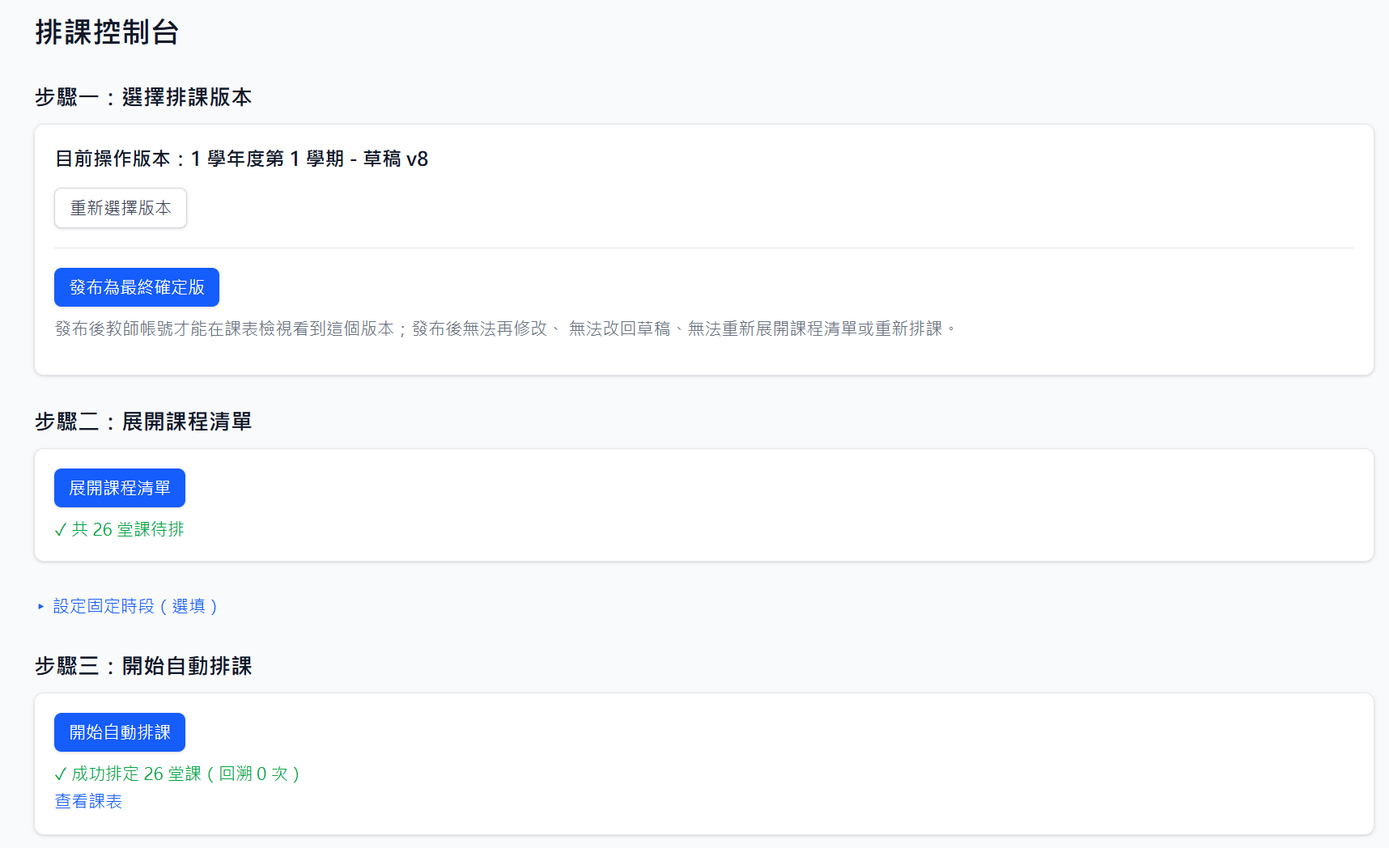
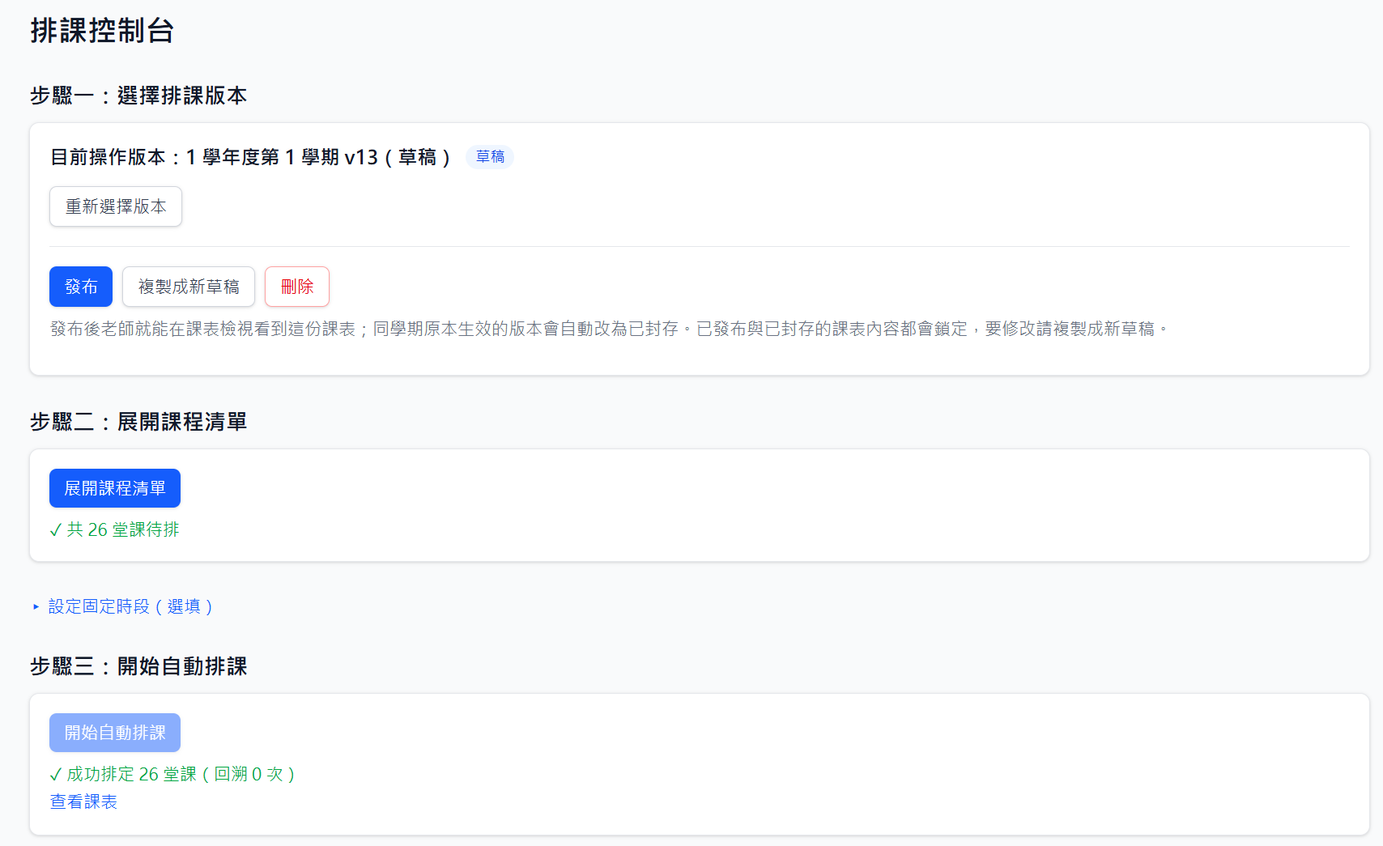
docs: 補上示範截圖並更新連堂組合相關文件
- README 換入 7 張示範截圖(含連堂整組拖曳),並更新課表檢視與排課成功截圖

- 更新 SYSTEM_DESIGN 連堂組合狀態與決策 26 的說明

diff --git a/docs/SYSTEM_DESIGN.md b/docs/SYSTEM_DESIGN.md
@@ -311,7 +311,7 @@ H12(停用狀態)理論上要分別檢查教師/班級/科目/教室四種實體
 | H10 | Room Capacity | ⏸ **延後** | `Room.capacity` 欄位已預留(nullable),但未實作對應 Constraint,見第 10 節 |
 | H11 | Non-teaching Period | ✅ 已做 | 即時檢查;在目前的 API 流程中實際上不會被觸發(只有 `greedy.py` 的逐候選解釋路徑會產生,但 `run_scheduler()` 只呼叫 Backtracking),前端失敗診斷因此對它顯示「此為排課引擎內部判斷」而非導向某個修正頁面,見 3.3 |
 | H12 | Active Status | ✅ 已做 | 即時檢查,涵蓋教師/班級/科目/教室 |
-| — | 連堂組合(Lesson Block,非 H 編號) | ✅ 引擎、預檢與檢查服務已做 | 需求的連堂樣式(如 2+1);同組同一天相鄰教學時段、同教師同教室,不同組不同天;以「一組一個排課單位」實作(決策 26);檢查服務以同一個 `LessonBlockConstraint` 回報 `BLOCK_NOT_CONSECUTIVE`/`BLOCK_SAME_DAY`(Task 88);手動整組調整尚未支援(第 10 節) |
+| — | 連堂組合(Lesson Block,非 H 編號) | ✅ 已做 | 需求的連堂樣式(如 2+1);同組同一天相鄰教學時段、同教師同教室,不同組不同天;以「一組一個排課單位」實作(決策 26);檢查服務以同一個 `LessonBlockConstraint` 回報 `BLOCK_NOT_CONSECUTIVE`/`BLOCK_SAME_DAY`(Task 88);手動移動、對調、換教師以整組為單位(Task 89),前端整組拖曳見決策 27(Task 90) |
 | — | 最低授課節數(`TEACHER_MIN_WORKLOAD`,非 H 編號) | ✅ 只檢查、不阻擋 | 教師在該版本的節數低於 `min_weekly_periods` 時,檢查結果列出一筆 **WARNING**(唯一的非 ERROR 類型);不在任何排課演算法或預檢中,不影響 `is_valid`,不阻擋排課、發布、移動或對調(Task 88,決策 15) |
 | — | 固定時段(Fixed Time Slot,非 H 編號) | ✅ 已做 | 以定義域實作:固定課的時段候選只剩固定時段(Task 28);不可能成立的固定時段在排課前預檢(6.3 第 5 類,Task 81);寫入前再確認沒有被移動(決策 23) |
 
@@ -418,7 +418,7 @@ HTTP 422
 | 23 | 自動排課要怎麼保證「固定時段的課一定排在固定時段」?固定時段本身不可能成立時要怎麼說明?(Task 81) | (a) 新增一條 Constraint,在每個候選上檢查「是否在固定時段」 (b) 縮小定義域:固定課的時段候選只剩固定時段,另外在排課前做預檢 (c) 排完再用檢查服務找出偏離的課 | (b) | 引擎裡每堂課是一個變數,定義域是(教師 × 時段 × 教室)的候選組合;Task 28 起固定課的 `LessonAssignment` 帶著已填好的 `time_slot_id` 進入搜尋,`candidate_time_slot_ids()` 只回傳這一個時段,所以搜尋本來就不可能把它排到別處——(a) 只會重複這件事,還要對每個候選多跑一次檢查;(c) 是事後補救,無法保證。這個做法缺的是「說得清楚」:固定時段本身不可能成立時(例如固定在午休),搜尋會跑完整棵樹才回報一個找不到原因的 `DEFINITELY_INFEASIBLE`。因此 `static_feasibility.py` 新增第 5 類預檢 `_check_fixed_time_slots()`,在搜尋前找出:時段不存在(`STATIC_FIXED_SLOT_UNKNOWN`)、非教學時段(`_NON_TEACHING`)、能教這堂課的教師(指定教師,或沒有指定時所有合格教師)在該時段都不可排課(`_TEACHER_UNAVAILABLE`)、同班兩堂以上固定在同一時段(`_CLASS_CLASH`)、只能由同一位教師(指定教師或唯一合格教師)授課的兩堂以上固定在同一時段(`_TEACHER_CLASH`)、同一時段需要某類型教室的固定課多於該類型教室數(`_ROOM_SHORTAGE`)。每一項都帶 `lesson_id`、班級、科目、時段與需求 id,沿用既有的 `STATIC_CHECK_FAILED`(422)回應,前端以既有的失敗診斷顯示成中文句子,時段經 `formatTimeSlotLabel()` 顯示教學節序號(決策 21)。沒有固定課時這一步只掃過一次課程清單,搜尋行為不變。寫入前 `run_scheduler()` 再以 `lessons_moved_off_fixed_slot()` 確認沒有固定課被移動,若有(只可能是引擎程式錯誤)就不寫入並丟出例外。固定時段不是 AGENTS.md 的 H1–H12 之一,所以不給 H 編號,文件中以「固定時段(以定義域實作)」呈現。分工:引擎保證自動排課的結果;檢查服務的 `FIXED_TIME_SLOT_MISMATCH` 保留,用來發現**手動移動或對調**之後偏離固定時段的課——手動移動刻意不更新 `Lesson.fixed_time_slot_id`(避免默默改掉排課前的設定),這個既有取捨不變。 |
 | 24 | 編輯模式想在選取或拖曳一堂課時標出「放到每一格會不會產生新問題」,後端要提供什麼?(Task 83) | (a) 前端對每一格各呼叫一次 move-lesson 的 dry_run (b) 新端點一次回傳每個時段的試算,且直接算好「新增/解決的問題」 (c) 新端點一次回傳每個時段試算後的**完整違規清單**,差異由前端算 | (c) | (a) 一堂課約 40–50 個時段就要 40–50 次請求,每次都要重新查資料庫並寫入後 rollback,拖曳時太慢。`GET /schedule-versions/{id}/move-candidates/{schedule_id}` 一次回傳:`baseline`(目前的檢查,與 `GET /check` 相同)與每個時段一筆 `candidates`:`available`(非教學時段為 `NON_TEACHING_SLOT`、目前所在時段為 `CURRENT_SLOT`,兩者 `move` 為 null)、`move`(移到這裡、教室不變之後的完整檢查,等同 move-lesson 的 dry_run)、`swaps`(與這個時段中同班、同教師或同教室的每一堂課對調後的完整檢查與對方排課列 id,等同 swap-lessons 的 dry_run)。swap 對象列出三種關係的聯集,因為課表的班級/教師/教室三種檢視中,同一格顯示的課不同,由前端依目前檢視挑選。不採 (b):「新增/解決」的判斷以「問題身分」比對(Task 71 的 `violationIdentityKey()`),這套規則已在前端並有測試;後端若再實作一份,兩邊遲早會不一致,所以後端只回傳與既有端點完全相同格式的原始清單,前端沿用 `diffViolations()`。**唯讀且只限 DRAFT**:只有草稿能移動或對調,已發布或已封存的版本回 409(沿用鎖定訊息);權限比照 `/check`,只限 ADMIN,TEACHER 一律 403,在查任何資料之前就擋下,不洩漏哪些 id 存在;排課列不存在或屬於其他版本都回 404。**效能**:檢查服務拆成 `load_check_context()`(一次載入需求、資源與固定時段)與純計算的 `check_assignments()`,`GET /check` 改成兩者的組合,行為與回應不變;新端點只查一次資料庫,之後在記憶體中替換那一兩列的時段逐一試算,完全不寫入、也不做寫入後 rollback。一致性由測試保證:對同一份資料的每個候選時段,`move`/`swaps` 必須與實際呼叫 move-lesson/swap-lessons 的 dry_run 結果完全相同。量測(測試資料庫,50 個時段,含 HTTP 往返):30 列約 0.02–0.1 秒(第一次請求含啟動成本)、300 列約 0.23–0.24 秒。**Task 89(連堂)**:候選與 move-lesson/swap-lessons 改用同一個整組規劃(`services/block_adjustment.py`,見決策 26),回應只新增可空欄位:每個時段的 `block_members`(選取的課屬於 2 節以上的連堂、且該格可移動時,整組每一列 `{schedule_id, to_time_slot_id}`)與 `unsupported_swaps`(該格中依連堂規則不能對調的課 `{swap_with_schedule_id, reason}`,沒有時為 null),`swaps[]` 的 `block_members`(涉及連堂時兩組所有會動的列);`unavailable_reason` 新增 `BLOCK_OUT_OF_RANGE`、`BLOCK_TARGET_OCCUPIED`(只會出現在連堂的課),既有的 `NON_TEACHING_SLOT`/`CURRENT_SLOT` 與其優先順序不變。沒有分組的課,新欄位一律為 null(與它對調的對象是連堂時除外:那個對調列在 `unsupported_swaps`)。量測(Task 89 後):30 列約 0.12–0.17 秒、300 列約 0.39–0.43 秒,與改動前同一環境的 0.10–0.11 秒、0.41–0.42 秒相同。 |
 | 25 | 選取或拖曳一堂課時,要怎麼在課表上標出候選位置?(Task 84) | (a) 只用顏色標格子,紅色格禁止放下 (b) 標示僅供參考:安全/衝突兩種標籤加文字與原因,任何格子都仍可放下並走既有預覽 | (b) | **判定與預覽對話框完全相同**:每個標示都是 `diffViolations(baseline, 移動或對調後)`(以 `violationIdentityKey()` 比對),有新增問題就是「衝突」、只解決或維持既有問題就是「安全」,句子也用同一個 `getViolationSentence()`(時段為教學節序號),所以紅色格正好就是放下後預覽會出現「這次異動會新增的問題」的格子;非教學時段與目前所在格不加標示,維持原本樣式。放置語意沿用 Task 71:格子空白處用 `move`,放到某堂課上用 `swaps` 中對方 id 相符的檢查,找不到就不提示(`utils/moveCandidates.ts`)。**外觀(Task 85 精簡)**:每格最多一個淡色底加一個小圖示——可放是淺綠底與 ✓,衝突是淺紅底加細斜紋與 ✕(形狀與紋路不同,不只靠顏色),非教學格與目前所在格不加標示;圖示的 `title` 與 `aria-label` 寫出會發生什麼並列出最多 3 條原因(超過顯示「…等 N 項」)。Task 84 原本的左側粗色條、「✓ 可放」「✕ 衝突」文字標籤與每堂課的「可對調」徽章讓格子太擠,改為對調的說明只放在該課的 `title` 與 `aria-label`。飽和度刻意壓低,與琥珀色定位框、天藍色「剛調整」、拖曳經過的框線、非教學格的深灰都分得出來;格子同時有這些標記時改顯示那個標記,圖示保留。課表上方的圖例縮成三個小色塊加「可放」「衝突」「非教學」,細節放在圖例的滑鼠提示。**不阻擋**:紅色格仍可放下,由預覽決定(「仍要移動」),因為中間步驟本來就可能暫時衝突(決策 15)。**載入與快取**:選取或開始拖曳時才呼叫 Task 83 的端點,每個(版本、排課列、編輯版次)只呼叫一次,重複選同一堂課讀快取;儲存移動、對調或換教師後版次加一,舊快取不再使用。課程改變時 AbortController 取消舊請求,結果也依快取鍵存放,舊回應不會套用到新課程;只在請求的回呼中更新狀態,不在 effect 內同步 setState。**不中斷拖曳**:拖曳來源由課表元件在 dragstart 之後的下一個事件循環才告知頁面(沿用 Task 71 的延後做法),請求與標示更新都在那之後;標示只改格子的 class 與在每格最後加上一個標籤元素,課程按鈕的 key 與位置不變、`draggable` 也不受影響,所以被拖曳的元素不會重新掛載。清除時機:放下或結束拖曳、取消選取或按 Esc、預覽或儲存進行中、離開編輯模式、換版本;切換檢視時,若那堂課不在新的課表上就不顯示。**失敗降級**:403、404、409 或網路錯誤時不跳錯誤對話框、不加標示,只在課表下方以次要樣式顯示「目前無法顯示候選位置，仍可直接放下並預覽」,其他功能照常。 |
-| 26 | 每週不只一節的課常要綁成連堂(例如自然每週 3 節 =「2 節連堂 + 1 節」,且兩者不同天),要怎麼表示與排課?(Task 87) | (a) 沿用 `consecutive_limit`(單一上限數字) (b) 需求加「連堂樣式」字串(如 2+1),課程記錄所屬組;引擎把一組當成一個單位排 (c) 每節課仍獨立排,再加一條「同組要相鄰」的約束讓搜尋自己湊 | (b) | `consecutive_limit` 只是一個上限,表達不了「哪幾節綁在一起、幾組」;(c) 讓搜尋逐節猜測哪兩節要相鄰,組越大搜尋空間越大、失敗時也說不出是哪一組。**樣式**:`ClassSubjectRequirement.lesson_pattern`,例如 `2+1`、`2+2+1`、`3`;每組 1 到 3 節、總和必須等於 `weekly_periods`(建立時由 schema 檢查,修改時以修改後的兩個值檢查,不一致回 422);一律存成由大到小(`1+2` 存成 `2+1`),同一個樣式只有一種寫法,第 1 組永遠是最長的一組;空值 = 不指定連堂,所有行為與以前完全相同。樣式列入需求編輯保護(被已發布或已封存課表使用時不可修改,沿用 409)。**課程分組**:`Lesson.block_no`/`block_seq`(組別與組內順序,沒有樣式時都是 NULL,資料庫 CHECK 保證兩者同時有或同時沒有),依 `sequence_number` 依序填入各組;展開課程(diff-sync)會一併校正既有課程的分組,修改樣式時也立即重新分組,跨學期複製會連同樣式與分組一起複製。**規則**:同一組的所有節在同一天、`period` 相鄰且都是教學時段(中間隔著午休等非教學時段或缺一節就不算連續)、同一位教師、同一間教室,組內依序;同一需求的不同組必須在不同天。**引擎**:一組是一個排課單位,定義域是(教師、起始時段、教室),起始時段只列出「當天有連續 N 個教學時段」的位置;放置時把一組展開成各節的 `LessonAssignment`,再用既有的 H1–H12 約束逐節檢查,另加即時約束 `LessonBlockConstraint`(同組連續、不同組不同天);寫入時本來就是逐節的排課列。沒有分組的課程就是「只有一節的單位」,候選、排序、回溯與以前完全一樣——`SchedulingResources` 只多兩個預設為空的欄位(`lesson_blocks`、`time_slot_positions`),Task 87 之前既有的 560 個後端測試(其中引擎 107 個)全數未改預期而通過,同一份無樣式資料新舊版的排課結果相同、時間在誤差內。**檢查已儲存的課表(Task 88)**:只排了一部分的組,只判斷已有時段的節:每一節要在它在組內位置所對應的節次,且「整組在那裡會佔用的所有節次」都必須是存在的教學時段——所以只有在「不論其餘節怎麼排都不可能正確」時才回報,單純未排滿不算違規(缺的節由 H7 或 `INCOMPLETE_SCHEDULE_ROW` 回報,與其他規則的分工相同);沒有教師的列不算「另一位教師」。穩定識別:`BLOCK_NOT_CONSECUTIVE:{需求}:{組}`、`BLOCK_SAME_DAY:{需求}:{同一天的各組,由小到大}`,不含時段、星期或課堂,所以同一組在移動前後仍不連續時 key 不變。**與固定時段**:組內任何一節被固定,整組的起始時段就跟著決定(只保留讓該節落在固定時段的起始位置);組內固定時段互相矛盾(不同天、不相鄰、順序不符,或會讓整組跨過午休)或兩組被固定在同一天,都在預檢指出。**取捨**:`consecutive_limit` 欄位與資料保留,但已停用(API 標為 deprecated,沒有任何規則讀它),以免破壞既有資料與用戶端;前端設定尚未支援連堂(見第 10 節)。**手動調整(Task 89)**:移動、對調一律以「組」為單位——一組是同一個連堂在該版本中已有排課列的所有課;沒有分組的課與只有 1 節的組(如 2+1 的「1」)各自是 1 節的組,行為與以前完全相同。move-lesson、swap-lessons(預覽與執行)與移動候選都呼叫同一個純函式 `services/block_adjustment.py`,先決定「哪幾列移到哪裡」(回應的 `changes` 列出所有實際變動的列,不另加欄位),再用 Task 88 的同一個 `check_assignments()`/`/check` 路徑檢查,整組在同一個交易內全部更新或全部不動。**移動**:被拖曳的是組內第 k 節、放到時段 T,整組從 T 往前 k−1 節開始,同一天依序排下去,教師與教室不變(move-lesson 指定教室時整組套用同一間);整組會佔用的每一節(含尚未排課的節)都必須存在且是教學時段,否則 `BLOCK_OUT_OF_RANGE`;移動後的課若落在本班其他課所在的時段,就不是移動而是對調,`BLOCK_TARGET_OCCUPIED`。**對調**:兩組大小相同時整組互換——第 i 節換到對方第 i 節的時段(兩組都連續時就是起始時段互換),教師與教室各自留在原列;下列情況不支援、回 `BLOCK_SWAP_UNSUPPORTED`:大小不同(2↔1,包括連堂與單節的課)、同一組內的兩節、任一組未排滿(缺排課列或缺時段)、以及「拖到好幾堂單節課上」(移動是 `BLOCK_TARGET_OCCUPIED`,與其中任一堂對調都是大小不同)。理由:大小不同或涉及多堂課時,「誰去哪裡」有多種合理解釋,任選一種都可能悄悄搬動使用者沒想動的課;只支援一對一互換,結果才完全可預期。被拒絕時端點回 409,`detail` 為中文說明、`reason` 為上述代碼,與候選端點的原因相同。**固定時段**不阻擋(與決策 15、19 及 Task 66 一致):組內有固定時段的課照樣整組移動或對調,由檢查回報 `FIXED_TIME_SLOT_MISMATCH`。**換教師**本來就以整個需求為單位(決策 17),同一需求的每一組一起換,不需修改。 |
+| 26 | 每週不只一節的課常要綁成連堂(例如自然每週 3 節 =「2 節連堂 + 1 節」,且兩者不同天),要怎麼表示與排課?(Task 87) | (a) 沿用 `consecutive_limit`(單一上限數字) (b) 需求加「連堂樣式」字串(如 2+1),課程記錄所屬組;引擎把一組當成一個單位排 (c) 每節課仍獨立排,再加一條「同組要相鄰」的約束讓搜尋自己湊 | (b) | `consecutive_limit` 只是一個上限,表達不了「哪幾節綁在一起、幾組」;(c) 讓搜尋逐節猜測哪兩節要相鄰,組越大搜尋空間越大、失敗時也說不出是哪一組。**樣式**:`ClassSubjectRequirement.lesson_pattern`,例如 `2+1`、`2+2+1`、`3`;每組 1 到 3 節、總和必須等於 `weekly_periods`(建立時由 schema 檢查,修改時以修改後的兩個值檢查,不一致回 422);一律存成由大到小(`1+2` 存成 `2+1`),同一個樣式只有一種寫法,第 1 組永遠是最長的一組;空值 = 不指定連堂,所有行為與以前完全相同。樣式列入需求編輯保護(被已發布或已封存課表使用時不可修改,沿用 409)。**課程分組**:`Lesson.block_no`/`block_seq`(組別與組內順序,沒有樣式時都是 NULL,資料庫 CHECK 保證兩者同時有或同時沒有),依 `sequence_number` 依序填入各組;展開課程(diff-sync)會一併校正既有課程的分組,修改樣式時也立即重新分組,跨學期複製會連同樣式與分組一起複製。**規則**:同一組的所有節在同一天、`period` 相鄰且都是教學時段(中間隔著午休等非教學時段或缺一節就不算連續)、同一位教師、同一間教室,組內依序;同一需求的不同組必須在不同天。**引擎**:一組是一個排課單位,定義域是(教師、起始時段、教室),起始時段只列出「當天有連續 N 個教學時段」的位置;放置時把一組展開成各節的 `LessonAssignment`,再用既有的 H1–H12 約束逐節檢查,另加即時約束 `LessonBlockConstraint`(同組連續、不同組不同天);寫入時本來就是逐節的排課列。沒有分組的課程就是「只有一節的單位」,候選、排序、回溯與以前完全一樣——`SchedulingResources` 只多兩個預設為空的欄位(`lesson_blocks`、`time_slot_positions`),Task 87 之前既有的 560 個後端測試(其中引擎 107 個)全數未改預期而通過,同一份無樣式資料新舊版的排課結果相同、時間在誤差內。**檢查已儲存的課表(Task 88)**:只排了一部分的組,只判斷已有時段的節:每一節要在它在組內位置所對應的節次,且「整組在那裡會佔用的所有節次」都必須是存在的教學時段——所以只有在「不論其餘節怎麼排都不可能正確」時才回報,單純未排滿不算違規(缺的節由 H7 或 `INCOMPLETE_SCHEDULE_ROW` 回報,與其他規則的分工相同);沒有教師的列不算「另一位教師」。穩定識別:`BLOCK_NOT_CONSECUTIVE:{需求}:{組}`、`BLOCK_SAME_DAY:{需求}:{同一天的各組,由小到大}`,不含時段、星期或課堂,所以同一組在移動前後仍不連續時 key 不變。**與固定時段**:組內任何一節被固定,整組的起始時段就跟著決定(只保留讓該節落在固定時段的起始位置);組內固定時段互相矛盾(不同天、不相鄰、順序不符,或會讓整組跨過午休)或兩組被固定在同一天,都在預檢指出。**取捨**:`consecutive_limit` 欄位與資料保留,但已停用(API 標為 deprecated,沒有任何規則讀它),以免破壞既有資料與用戶端;前端的設定、顯示與整組拖曳見決策 27(Task 90)。**手動調整(Task 89)**:移動、對調一律以「組」為單位——一組是同一個連堂在該版本中已有排課列的所有課;沒有分組的課與只有 1 節的組(如 2+1 的「1」)各自是 1 節的組,行為與以前完全相同。move-lesson、swap-lessons(預覽與執行)與移動候選都呼叫同一個純函式 `services/block_adjustment.py`,先決定「哪幾列移到哪裡」(回應的 `changes` 列出所有實際變動的列,不另加欄位),再用 Task 88 的同一個 `check_assignments()`/`/check` 路徑檢查,整組在同一個交易內全部更新或全部不動。**移動**:被拖曳的是組內第 k 節、放到時段 T,整組從 T 往前 k−1 節開始,同一天依序排下去,教師與教室不變(move-lesson 指定教室時整組套用同一間);整組會佔用的每一節(含尚未排課的節)都必須存在且是教學時段,否則 `BLOCK_OUT_OF_RANGE`;移動後的課若落在本班其他課所在的時段,就不是移動而是對調,`BLOCK_TARGET_OCCUPIED`。**對調**:兩組大小相同時整組互換——第 i 節換到對方第 i 節的時段(兩組都連續時就是起始時段互換),教師與教室各自留在原列;下列情況不支援、回 `BLOCK_SWAP_UNSUPPORTED`:大小不同(2↔1,包括連堂與單節的課)、同一組內的兩節、任一組未排滿(缺排課列或缺時段)、以及「拖到好幾堂單節課上」(移動是 `BLOCK_TARGET_OCCUPIED`,與其中任一堂對調都是大小不同)。理由:大小不同或涉及多堂課時,「誰去哪裡」有多種合理解釋,任選一種都可能悄悄搬動使用者沒想動的課;只支援一對一互換,結果才完全可預期。被拒絕時端點回 409,`detail` 為中文說明、`reason` 為上述代碼,與候選端點的原因相同。**固定時段**不阻擋(與決策 15、19 及 Task 66 一致):組內有固定時段的課照樣整組移動或對調,由檢查回報 `FIXED_TIME_SLOT_MISMATCH`。**換教師**本來就以整個需求為單位(決策 17),同一需求的每一組一起換,不需修改。 |
 | 27 | 前端要怎麼設定連堂樣式、顯示連堂,以及讓教務人員整組拖曳?(Task 90) | (a) 樣式用自由輸入的文字框 (b) 依每週節數產生的下拉選單;拖曳時前端自己推算整組落點 (c) 下拉選單;整組落點與能不能放一律以後端 move-candidates 的 `block_members`/原因代碼為準 | (c) | **設定**:排課需求總覽的「連堂樣式」欄改成下拉選單,選項由純函式 `utils/lessonPattern.ts` 依該列的每週節數產生:「不指定連堂」加上每一種「每組 1–3 節、總和等於每週節數」的寫法(由大到小、不重複,組數多的排前面,例如 3 節 = 1+1+1、2+1、3),並排除組數超過一週上課天數的組合(天數取自時段資料,取不到就不過濾);每週 1 節不顯示選單。選項文字直接說明意思,例如「2+1(一組 2 節連堂 + 一節單獨,不同天)」。修改每週節數讓目前樣式不再合法時,立即重設為「不指定連堂」並提示;既有樣式因天數過濾不在選項內時仍保留為「(目前設定)」,打開編輯不會悄悄改掉。自由輸入(a)容易打出後端會拒絕的寫法,且使用者需要先懂規則。`consecutive_limit` 已停用(決策 26),原「連續節數限制」欄直接改成「連堂樣式」欄,表單不再送出它。鎖定與 API 錯誤沿用既有需求編輯保護與中文訊息。**顯示**:同一組連堂的各格在左緣有一條低調的靛色細條,相鄰兩格的細條跨過格線連成一段(兩端內縮圓角,所以上下相鄰的兩個不同組不會看起來連在一起),不增加任何文字;唯讀與編輯模式、三種視角都一樣(`utils/lessonBlocks.ts` 的 `buildBlockLinks()`)。只有 1 節的組(2+1 的「1」)與沒有分組的課沒有細條。**拖曳與候選標示**:點選或拖曳組內任一節,整組各節一起變成「已選取/拖曳中」的樣式;拖到某格時,整組會落在的其他格以綠色虛線框出(來自後端 `block_members`,不是前端推算——規則只寫在後端一處,前端不必知道午休、節次邊界)。後端回 `BLOCK_OUT_OF_RANGE`/`BLOCK_TARGET_OCCUPIED`/`unsupported_swaps` 的目標標成灰色斜紋加 ⊘,提示文字寫原因(例如「整組放不下:會超出當天節次或跨過午休」);在這種目標放下或點選時**不發出任何請求**,直接在課表上方顯示原因——後端一定會回 409,送出只是多一次失敗。候選資料沒有載入時沿用原本的備援(照常送出,409 的中文原因顯示為預覽失敗)。預覽對話框列出後端 `changes` 的每一列並註明「整組 N 節一起移動」或「兩組連堂整組對調」;確認、取消、鍵盤操作沿用 Task 85/86。**比對與嚴重程度**:違規帶 `identity_key` 時以它判斷移動前後是不是同一個問題(移動後仍被拆開的連堂顯示為「仍未解決」,不會變成「解決一項、新增一項」),沒有的舊類型照 Task 71 的欄位規則。候選格的紅色、預覽的「仍要…」都只算新增的 ERROR;新增的 WARNING(`TEACHER_MIN_WORKLOAD`)在預覽中只是一行淡色提示,檢查清單中以「警告」標示分開列出,整份課表是否合法以後端 `is_valid` 為準。 |
 
 **決策 18 的狀態轉換表**(`PATCH /schedule-versions/{id}` 的 `status`):

diff --git a/README.md b/README.md
@@ -36,16 +36,6 @@ docker compose --profile full up --build -d
 
 ## 功能展示
 
-<!--
-待補截圖(檔名已規劃,圖片放入 docs/images/ 後把下面整段改成表格即可;檔案還不存在,所以先不放圖片連結以免破圖):
-(依 docs/DEMO_SCRIPT.md 的步驟拍攝)
-- docs/images/conflict-check.png   步驟 b:複製 v4 後檢查,「共 2 項問題」分組清單與「在課表中查看」的琥珀色定位框
-- docs/images/timetable-edit.png   步驟 c:拖拉後的預覽對話框(綠色「會解決」;或紅色「會新增」與「仍要移動」)
-- docs/images/reassign-teacher.png 步驟 e:換教師面板與預覽對話框(受影響課堂數、「不會新增或解決任何問題」、影響範圍說明)
-- docs/images/publish-switch.png   步驟 f:發布確認對話框,目前生效的 v11 會自動封存
-- docs/images/requirements-locked.png 步驟 h:排課需求總覽中已鎖定的需求列
--->
-
 完整的操作流程與每一步的預期畫面,見 [`docs/DEMO_SCRIPT.md`](docs/DEMO_SCRIPT.md)。示範中的「換教師」會改到學期共用的排課需求,每輪示範後用 `scripts/reset_demo_requirements.ps1` 重置(見下方「重置示範資料」)。
 
 ## 畫面截圖
@@ -53,9 +43,20 @@ docker compose --profile full up --build -d
 | 截圖 | 說明 |
 |---|---|
 | ![基礎資料瀏覽](docs/images/data-browser.png) | 基礎資料瀏覽(老師分頁展開):CRUD 操作按鈕,以及任教資格、不可用時段的即時管理。 |
-| ![排課控制台](docs/images/scheduler-success.png) | 排課控制台:選版本 → 展開課程清單 → 自動排課的三步驟流程(此截圖拍攝於版本管理功能加入之前)。 |
+| ![排課控制台](docs/images/scheduler-success.png) | 排課控制台:選版本 → 展開課程清單 → 自動排課,以及版本的發布、取消發布、複製與刪除。 |
 | ![失敗診斷](docs/images/failure-diagnostics.png) | 排課失敗診斷:具體列出每堂課失敗原因與建議修正頁面連結,而非單純回報失敗。 |
 | ![課表檢視](docs/images/timetable-view.png) | 課表檢視:依班級/教師/教室切換視角,含非教學時段(早自習、午餐/午休)顯示(此截圖拍攝於節次重新編號之前:現在非教學列只寫名稱並以深灰色顯示,午休後的課依序為第 5–7 節)。 |
+| ![檢查衝突結果](docs/images/conflict-check.png) | 檢查衝突(DEMO_SCRIPT 步驟 b):複製已發布版本成草稿後檢查,問題依類型分組並合併計次,「在課表中查看」以琥珀色框定位到課表格子。 |
+| ![課表編輯模式的異動預覽](docs/images/timetable-edit.png) | 課表編輯模式(步驟 c):拖曳課程後先預覽這次異動會新增或解決哪些問題,確認後才儲存;候選格以淡綠/淡紅標示。 |
+| ![換教師面板與預覽](docs/images/reassign-teacher.png) | 換教師(步驟 e):以一門課為單位換人,預覽受影響的課堂數、新增與解決的問題,以及影響範圍。 |
+| ![發布版本的確認對話框](docs/images/publish-switch.png) | 版本發布(步驟 f):發布新版本時,目前生效的版本自動封存,每學期隨時只有一個已發布版本。 |
+| ![已鎖定的排課需求](docs/images/requirements-locked.png) | 排課需求總覽(步驟 h):被已發布或已封存課表使用的需求整列鎖定,不能編輯或刪除。 |
+| ![連堂整組拖曳](docs/images/block-drag.png) | 連堂整組拖曳(步驟 i):同一組連堂以左緣細條相連,拖曳任一節時框出整組會落在的格子,放不下的位置標示為不可放並說明原因。 |
+
+<!--
+待補截圖:每一行是一張圖的佔位(檔名 :: 替代文字 :: 說明)。圖片放進 docs/images/ 後執行 scripts/apply_readme_screenshots.ps1,
+只會把圖片檔已存在的那幾行換成上方表格的列,缺的保留在這裡,README 不會出現破圖。拍攝步驟見 docs/DEMO_SCRIPT.md。
+-->
 
 ## 架構
 
@@ -480,7 +481,7 @@ CI(`.github/workflows/ci.yml`)在每次 push 與 pull request 時執行同樣的
 | API / 整合測試(真實 FastAPI + PostgreSQL) | 563 | 其餘 `tests/test_*.py` |
 | 前端純函式單元測試(Vitest) | 206 | `cd frontend && npm test` |
 
-前端測試只涵蓋純函式(衝突句子合併與前後比對、定位規則、拖放規則、換教師列表、版本狀態標籤、錯誤訊息翻譯、密碼規則、節次顯示、版本刪除規則、失敗診斷句子、候選格標示、對話框鍵盤操作),元件與頁面互動沒有自動化測試。
+前端測試只涵蓋純函式(衝突句子合併與前後比對、定位規則、拖放規則、換教師列表、版本狀態標籤、錯誤訊息翻譯、密碼規則、節次顯示、版本刪除規則、失敗診斷句子、候選格標示、對話框鍵盤操作、連堂樣式選項、連堂分組與連接條),元件與頁面互動沒有自動化測試。
 
 Scheduling Engine 那組測試不需要啟動 FastAPI 或連資料庫,秒級內跑完;API 測試會對 `TEST_DATABASE_URL` 指到的資料庫逐一 `create_all`/`drop_all`,耗時較長。測試策略的完整理由見 `docs/SYSTEM_DESIGN.md` 第 9 節。
 
